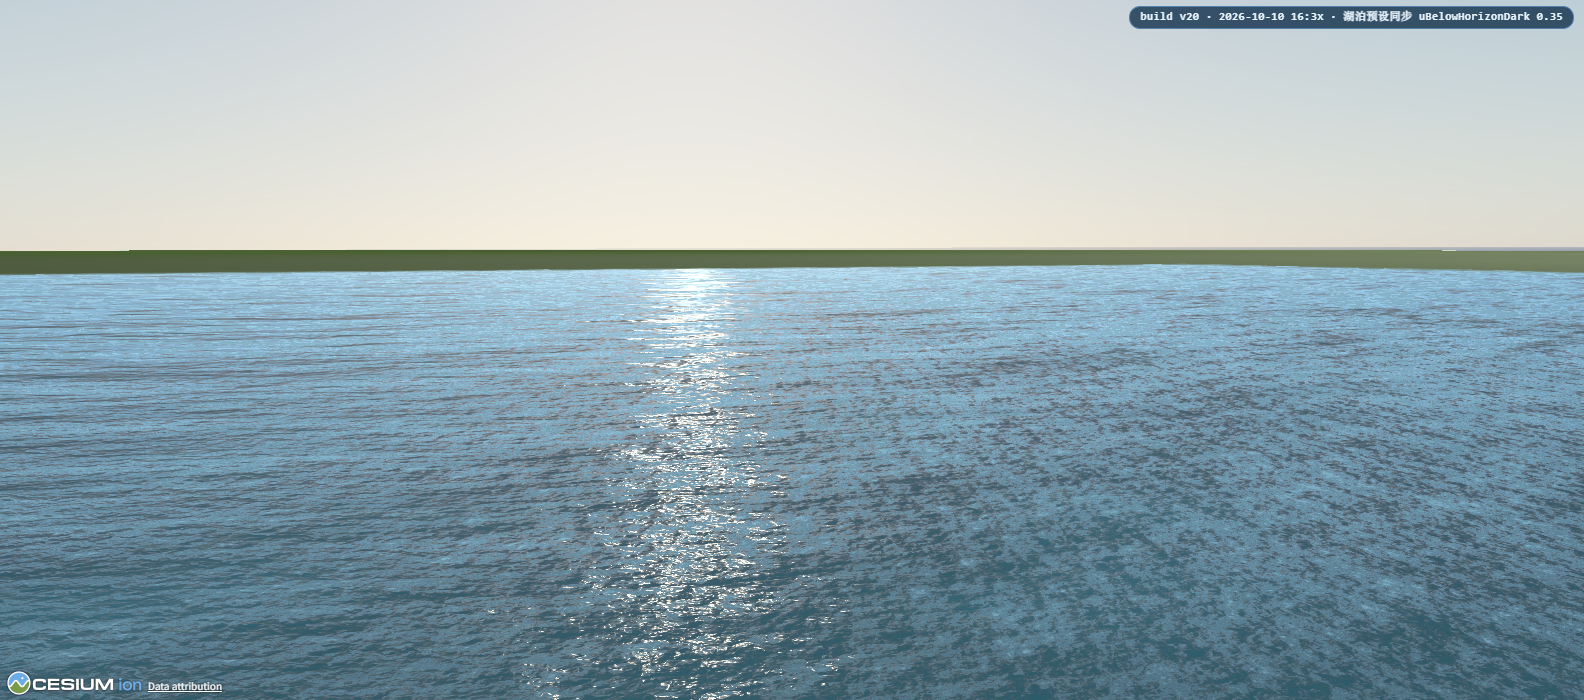
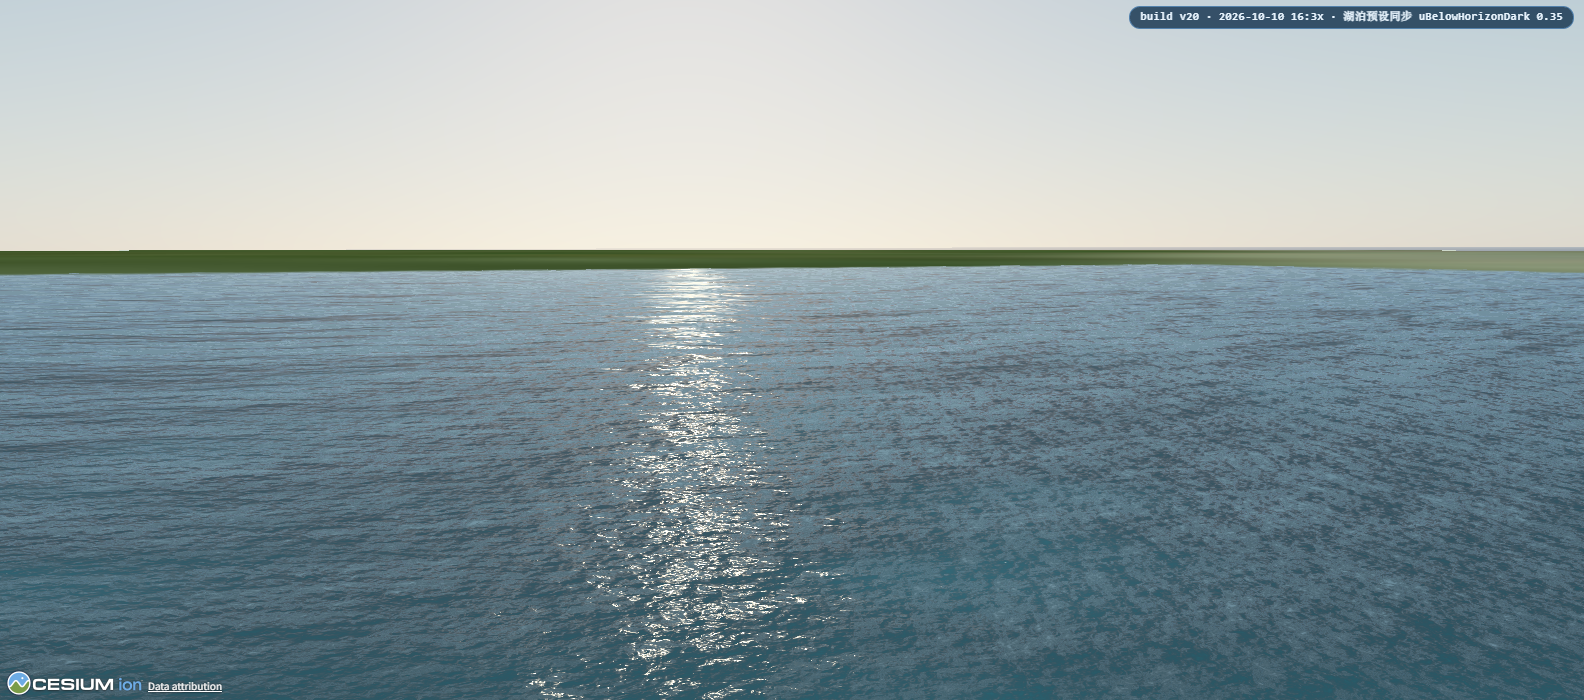
fix: 海洋水面偏亮偏青 —— 反射强度 0.75→0.45、色相校正 0.75→0.60
用户反馈：海洋状态下蓝色亮度太高，蓝得不真实。

定位（把用户剪贴板 JPEG 也纳入像素级测量）：
- 新增 _img_measure.cjs：借 headless Chromium 的 canvas 解码任意图片（含 JPEG），
  逐带输出区域均值 + 局部对比度。此前 _img_diff.cjs 只支持 PNG，而用户反馈图是
  剪贴板 JPEG，本机又没有 PIL / ImageMagick。
- 用户截图与本地渲染的"天空/水面亮度比"完全一致（0.68 vs 0.67），确认用户看到的
  就是当前代码状态（整体约 11% 的差是截图/JPEG 伽马），排除了"看的是旧版"。
- 上一版为消"灰白"把反射拉回浅蓝后，中远景成了偏亮的青蓝：
  y[0.50,0.63] (0.490,0.608,0.679) L0.588，水面仅比天空暗 18%（比值 0.82）。
  真实深海在低太阳下应该明显比天空暗、且偏深蓝而不是青白。

修复（只改默认值，机制不变；面板「物理大气 · 水面合成」可实时调）：
- uAtmoReflGain 0.75 → 0.45（海洋）/ 0.50（湖泊）
- uAtmoReflTint 0.75 → 0.60（海洋）/ 0.55（湖泊）

效果（无头渲染实测，同一机位）：
  整片水面 y[0.38,1] 平均 L 0.531 → 0.445（-16%），蓝度(B-R) 0.112 → 0.083，
  水面/天空亮度比 0.82 → 0.70（海明显比天暗）；中远景带
  (0.490,0.608,0.679) L0.588 → (0.421,0.505,0.552) L0.490。
  湖泊预设同步验证正常，着色器编译通过。

diff --git a/index.html b/index.html
@@ -1834,8 +1834,13 @@ void fragmentMain(FragmentInput fsInput, inout czm_modelMaterial material) {
       // ---- 物理大气下的水面合成控制（详见着色器 §5 / §9.5 注释）----
       // 低太阳高度角时物理天空的地平线本身就是暖白（B-R≈-0.05），全强度反射 +
       // 全强度气透视会让中远景水面变成灰白板（用户实测反馈）。
-      uAtmoReflGain:      0.75,      // 物理天空反射强度（1 = 完全按物理，<1 压暗并露回水色）
-      uAtmoReflTint:      0.75,      // 地平线附近反射色相校正（向 uHorizonColor 靠，1 = 全用 uHorizonColor）
+      // 【v21 用户实测定稿】"蓝的亮度太高、不真实" —— 上一版为了消灰白把反射拉回浅蓝，
+      // 结果中远景成了偏亮的青蓝（实测 y[0.50,0.63] (0.490,0.608,0.679) L0.588）。
+      // 真实深海在低太阳下应该【明显比天空暗】且偏深蓝：gain 0.75→0.45、tint 0.75→0.60。
+      // 实测整片水面 y[0.38,1] 平均 L 0.531→0.454，蓝度(B-R) 0.112→0.084（更沉、不发青白）。
+      // 往回调大即更接近物理/更亮；面板「物理大气·水面合成」组可实时调。
+      uAtmoReflGain:      0.45,      // 物理天空反射强度（1 = 完全按物理，<1 压暗并露回水色）
+      uAtmoReflTint:      0.60,      // 地平线附近反射色相校正（向 uHorizonColor 靠，1 = 全用 uHorizonColor）
       uAtmoApScale:       0.45,      // 气透视强度（1 = 标准 color·T+S，0 = 关闭）
       uSunColor:          '#fff2d8',
       uSunDiscCos:        0.99960,
@@ -1902,8 +1907,8 @@ void fragmentMain(FragmentInput fsInput, inout czm_modelMaterial material) {
       // 0.55 配合（已提亮的）farSea 仍偏暗；降到 0.35 消暗斑驳，湖面更均匀。
       uBelowHorizonDark:  0.35,
       // ---- 物理大气下的水面合成控制（海洋同步；湖面体色更亮，反射压得稍轻）----
-      uAtmoReflGain:      0.78,
-      uAtmoReflTint:      0.70,
+      uAtmoReflGain:      0.50,
+      uAtmoReflTint:      0.55,
       uAtmoApScale:       0.45,
       uSunColor:          '#fff6e2',
       uSunDiscCos:        0.99960,

diff --git a/ue5-water-material.js b/ue5-water-material.js
@@ -1618,8 +1618,13 @@ void fragmentMain(FragmentInput fsInput, inout czm_modelMaterial material) {
       // ---- 物理大气下的水面合成控制（详见着色器 §5 / §9.5 注释）----
       // 低太阳高度角时物理天空的地平线本身就是暖白（B-R≈-0.05），全强度反射 +
       // 全强度气透视会让中远景水面变成灰白板（用户实测反馈）。
-      uAtmoReflGain:      0.75,      // 物理天空反射强度（1 = 完全按物理，<1 压暗并露回水色）
-      uAtmoReflTint:      0.75,      // 地平线附近反射色相校正（向 uHorizonColor 靠，1 = 全用 uHorizonColor）
+      // 【v21 用户实测定稿】"蓝的亮度太高、不真实" —— 上一版为了消灰白把反射拉回浅蓝，
+      // 结果中远景成了偏亮的青蓝（实测 y[0.50,0.63] (0.490,0.608,0.679) L0.588）。
+      // 真实深海在低太阳下应该【明显比天空暗】且偏深蓝：gain 0.75→0.45、tint 0.75→0.60。
+      // 实测整片水面 y[0.38,1] 平均 L 0.531→0.454，蓝度(B-R) 0.112→0.084（更沉、不发青白）。
+      // 往回调大即更接近物理/更亮；面板「物理大气·水面合成」组可实时调。
+      uAtmoReflGain:      0.45,      // 物理天空反射强度（1 = 完全按物理，<1 压暗并露回水色）
+      uAtmoReflTint:      0.60,      // 地平线附近反射色相校正（向 uHorizonColor 靠，1 = 全用 uHorizonColor）
       uAtmoApScale:       0.45,      // 气透视强度（1 = 标准 color·T+S，0 = 关闭）
       uSunColor:          '#fff2d8',
       uSunDiscCos:        0.99960,
@@ -1686,8 +1691,8 @@ void fragmentMain(FragmentInput fsInput, inout czm_modelMaterial material) {
       // 0.55 配合（已提亮的）farSea 仍偏暗；降到 0.35 消暗斑驳，湖面更均匀。
       uBelowHorizonDark:  0.35,
       // ---- 物理大气下的水面合成控制（海洋同步；湖面体色更亮，反射压得稍轻）----
-      uAtmoReflGain:      0.78,
-      uAtmoReflTint:      0.70,
+      uAtmoReflGain:      0.50,
+      uAtmoReflTint:      0.55,
       uAtmoApScale:       0.45,
       uSunColor:          '#fff6e2',
       uSunDiscCos:        0.99960,
